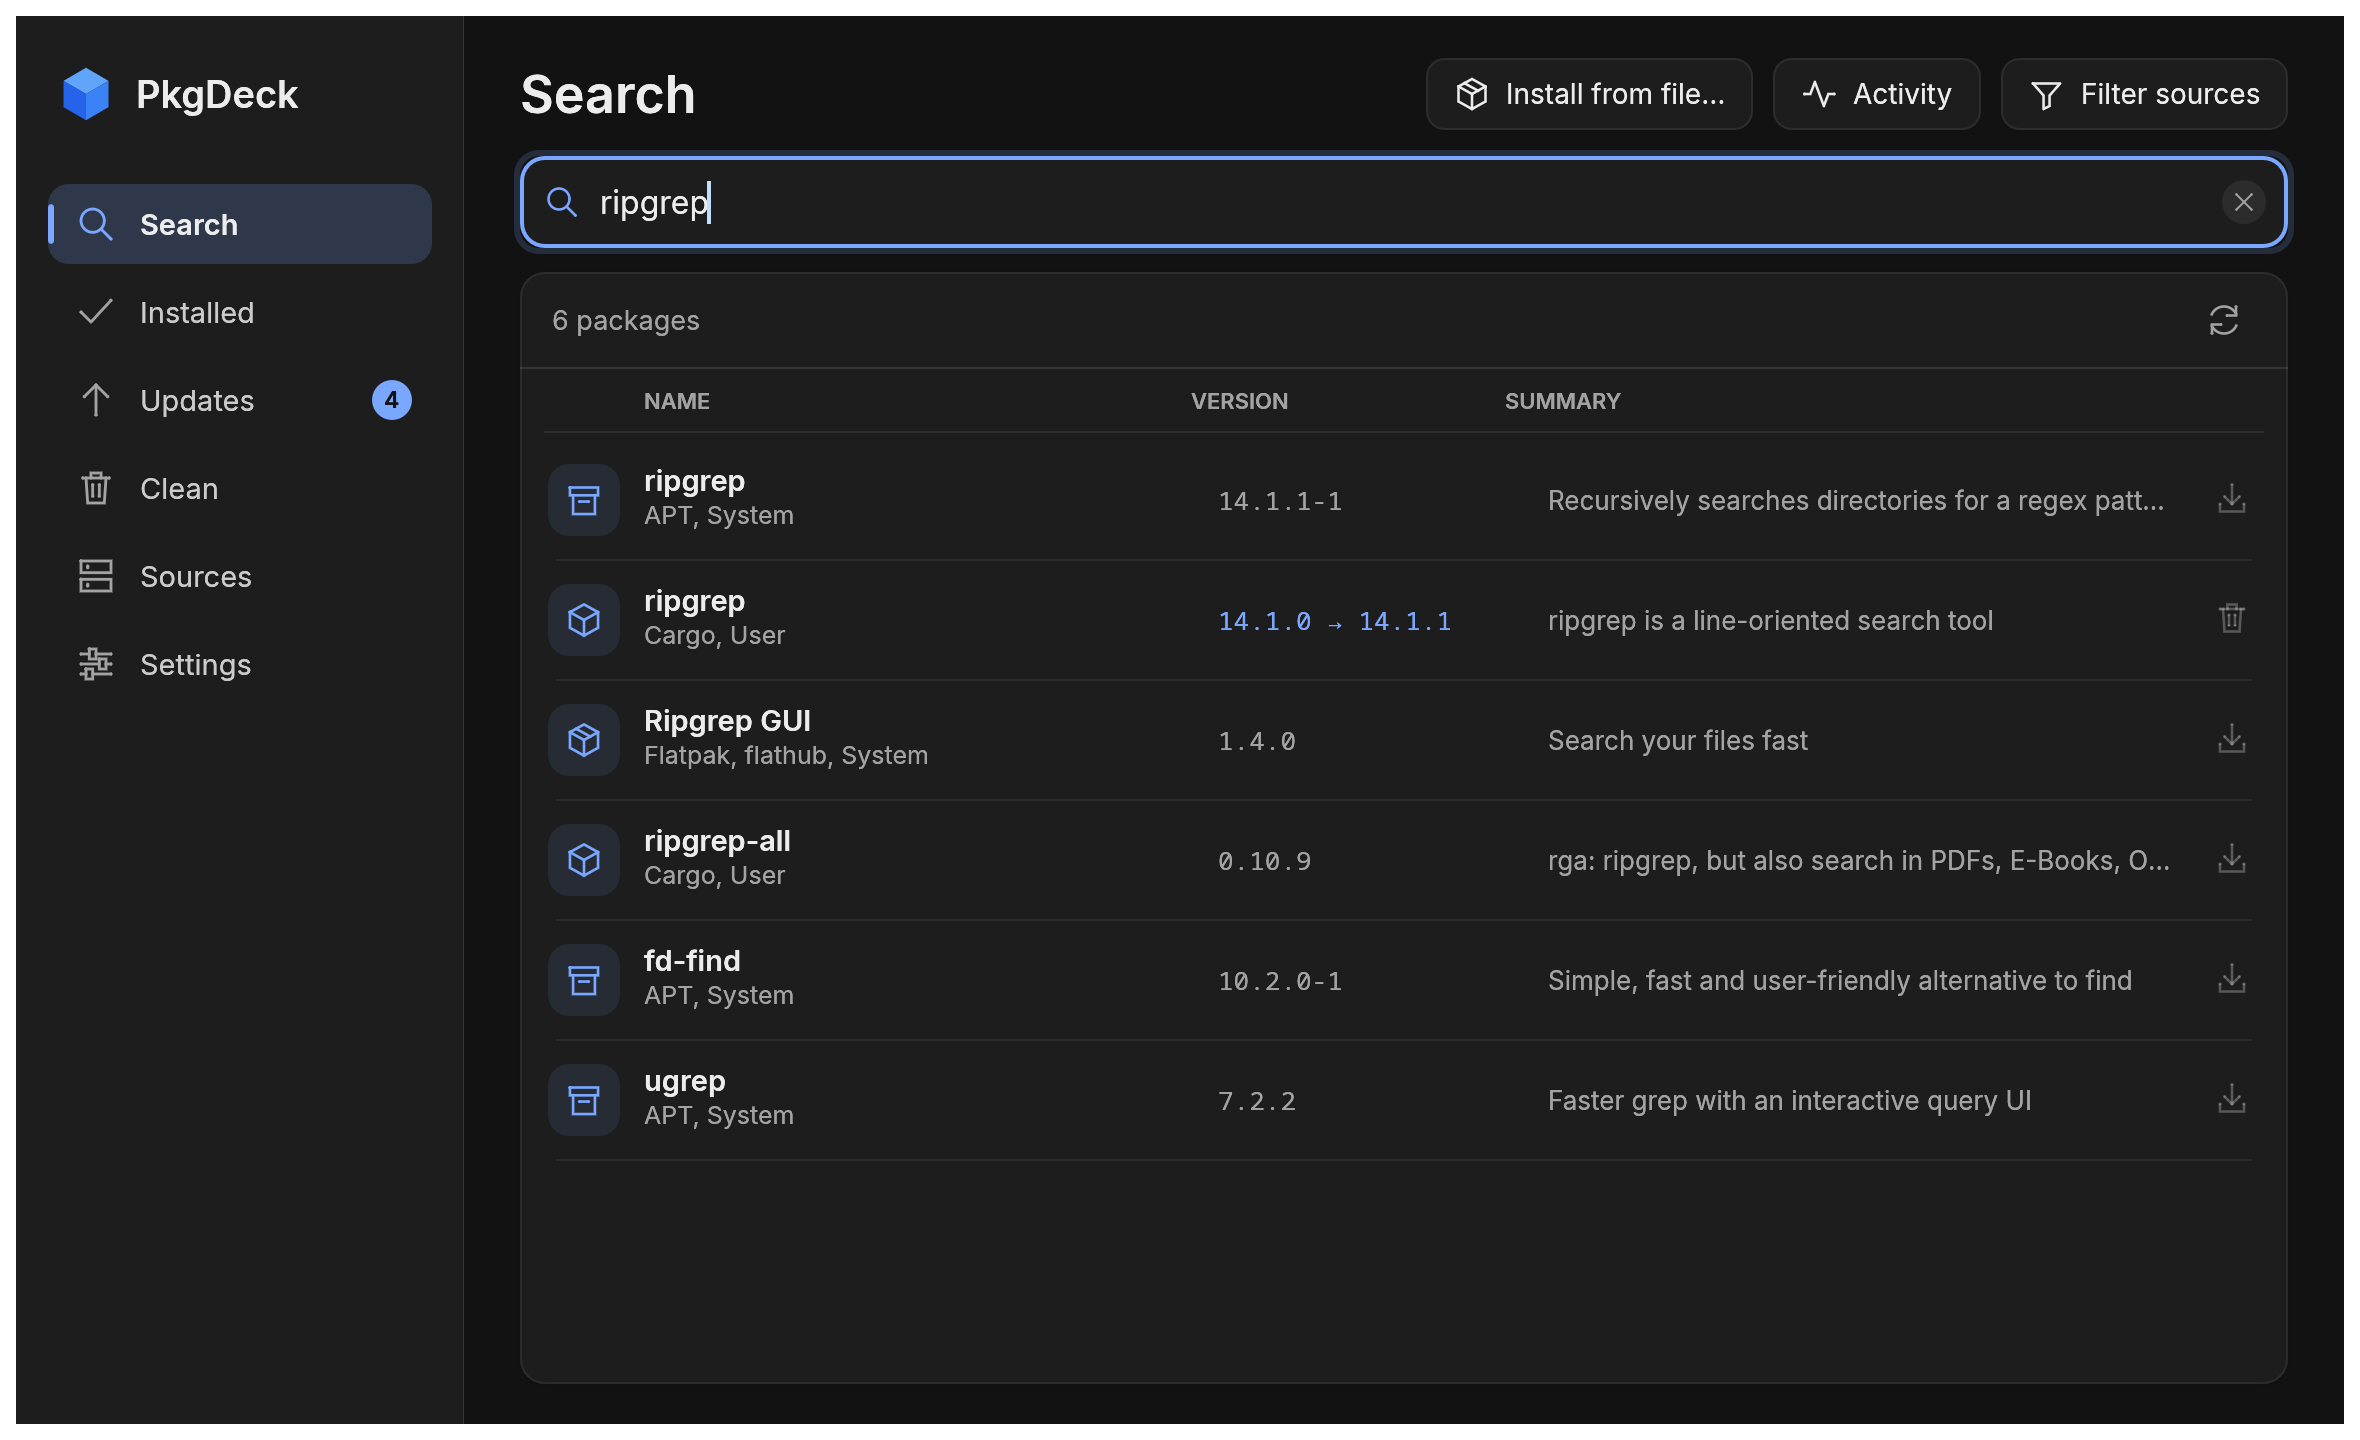
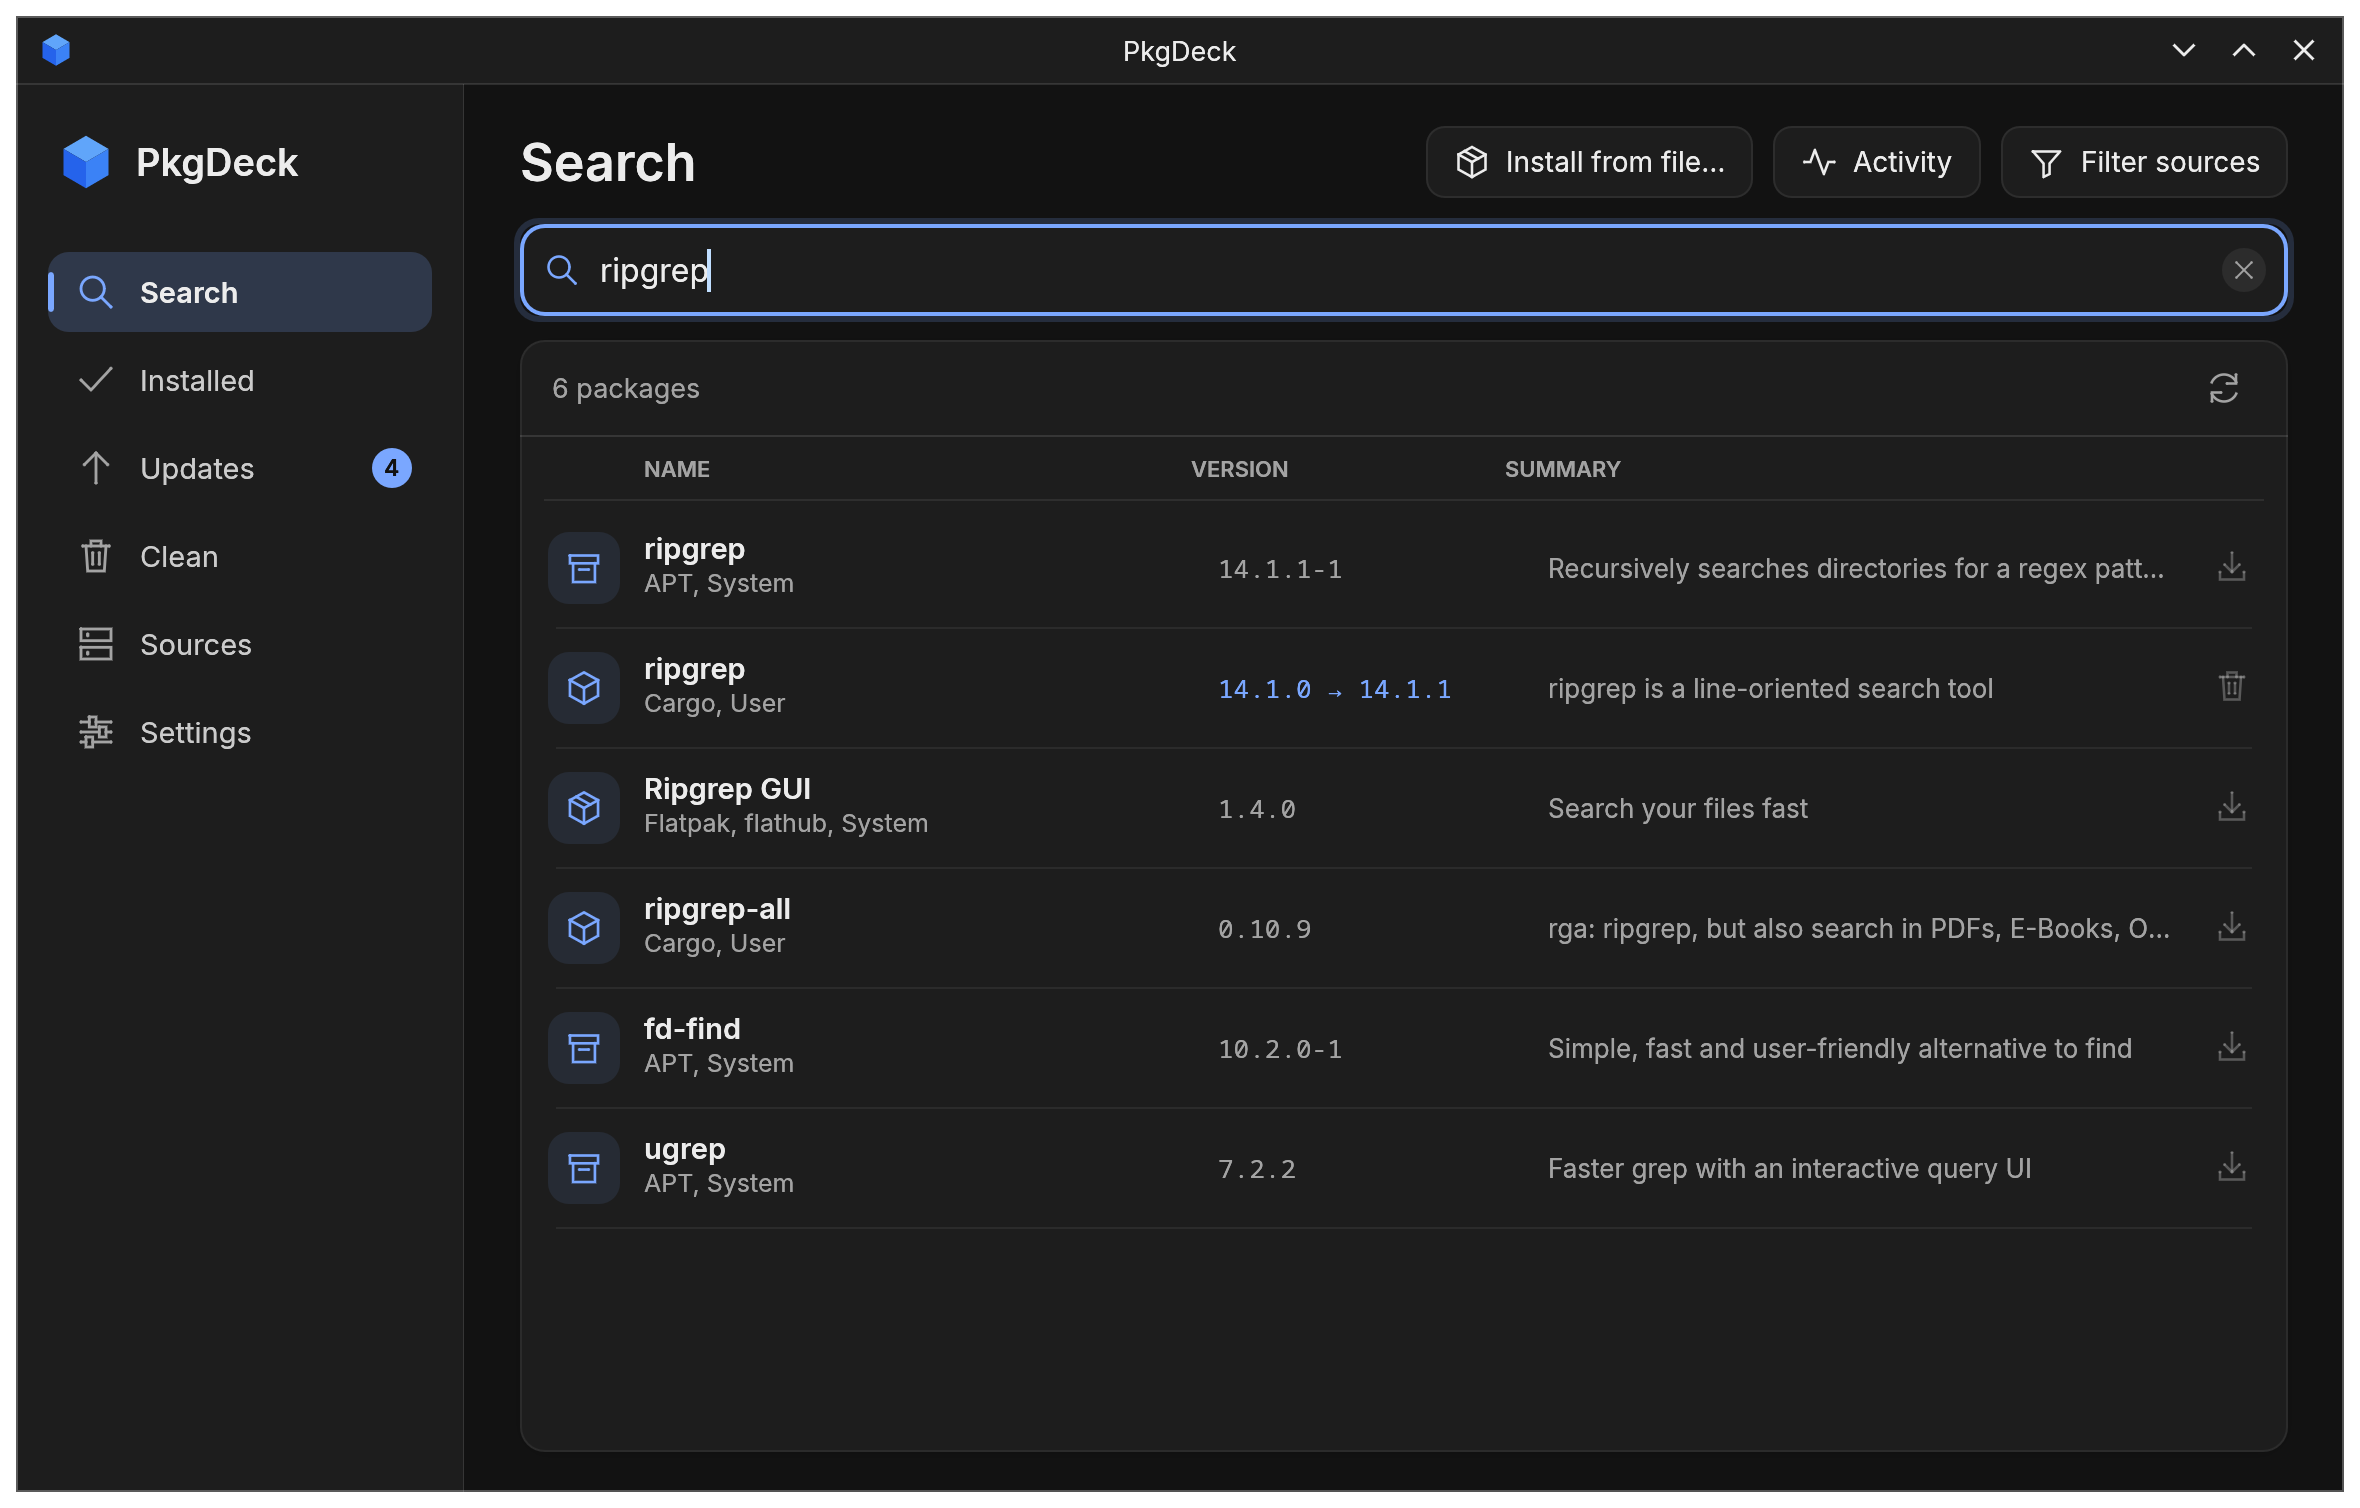
Draw a title bar and outline around the screenshots

diff --git a/crates/pkgdeck/examples/screenshots.rs b/crates/pkgdeck/examples/screenshots.rs
@@ -160,12 +160,58 @@ fn update_rows() -> Vec<model::Row> {
     ]
 }
 
+/// The height of the window's title bar, in points.
+const TITLE_BAR: f32 = 34.0;
+
+/// A title bar and outline like a desktop's around the window, so the
+/// screenshots look like a window rather than a bare page.
+fn title_bar(ui: &egui::Ui, bar: egui::Rect, window: egui::Rect) {
+    use egui::{pos2, vec2, Align2, CornerRadius, Rect, Stroke, StrokeKind};
+    let palette = pkgdeck::theme::Palette::current(ui.ctx());
+    let painter = ui.painter();
+    painter.rect_filled(bar, CornerRadius::ZERO, palette.surface);
+    painter.line_segment(
+        [bar.left_bottom(), bar.right_bottom()],
+        Stroke::new(1.0, palette.line),
+    );
+    let logo = Rect::from_center_size(pos2(bar.left() + 20.0, bar.center().y), vec2(18.0, 18.0));
+    egui::Image::new(egui::include_image!("../assets/logo.svg"))
+        .fit_to_exact_size(logo.size())
+        .paint_at(ui, logo);
+    painter.text(
+        bar.center(),
+        Align2::CENTER_CENTER,
+        "PkgDeck",
+        pkgdeck::theme::font(13.5),
+        palette.ink,
+    );
+    // Minimize, maximize and close, right to left.
+    let stroke = Stroke::new(1.4, palette.ink);
+    let center = |slot: f32| pos2(bar.right() - 20.0 - slot * 30.0, bar.center().y);
+    let close = center(0.0);
+    for (a, b) in [(-4.5, -4.5), (-4.5, 4.5)] {
+        painter.line_segment([close + vec2(a, b), close - vec2(a, b)], stroke);
+    }
+    let up = center(1.0);
+    painter.line_segment([up + vec2(-5.0, 2.5), up + vec2(0.0, -2.5)], stroke);
+    painter.line_segment([up + vec2(0.0, -2.5), up + vec2(5.0, 2.5)], stroke);
+    let down = center(2.0);
+    painter.line_segment([down + vec2(-5.0, -2.5), down + vec2(0.0, 2.5)], stroke);
+    painter.line_segment([down + vec2(0.0, 2.5), down + vec2(5.0, -2.5)], stroke);
+    painter.rect_stroke(
+        window,
+        CornerRadius::ZERO,
+        Stroke::new(1.0, palette.strong_line),
+        StrokeKind::Inside,
+    );
+}
+
 fn render(name: &str, size: [f32; 2], prepare: impl FnOnce(&mut App)) {
     let mut app = app();
     prepare(&mut app);
     app.invalidate();
     let mut harness = Harness::builder()
-        .with_size(egui::vec2(size[0], size[1]))
+        .with_size(egui::vec2(size[0], size[1] + TITLE_BAR))
         .with_pixels_per_point(2.0)
         .wgpu()
         .build_ui_state(
@@ -175,7 +221,14 @@ fn render(name: &str, size: [f32; 2], prepare: impl FnOnce(&mut App)) {
                     *ready = true;
                     return;
                 }
-                pkgdeck::ui::show(app, ui)
+                let full = ui.max_rect();
+                let bar = egui::Rect::from_min_size(full.min, egui::vec2(full.width(), TITLE_BAR));
+                let body =
+                    egui::Rect::from_min_max(egui::pos2(full.left(), bar.bottom()), full.max);
+                ui.scope_builder(egui::UiBuilder::new().max_rect(body), |ui| {
+                    pkgdeck::ui::show(app, ui)
+                });
+                title_bar(ui, bar, full);
             },
             (false, app),
         );
